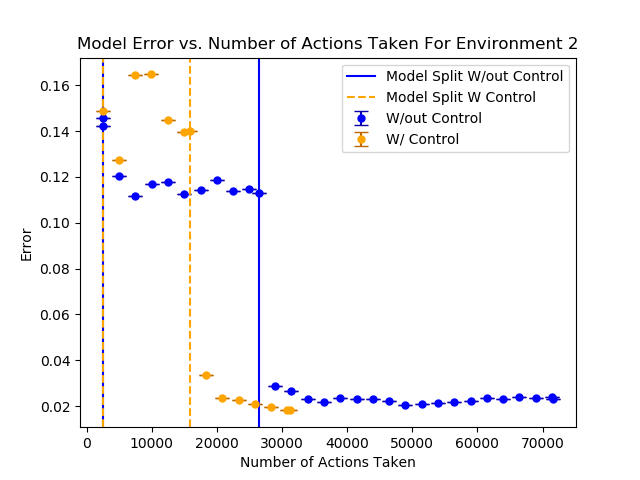
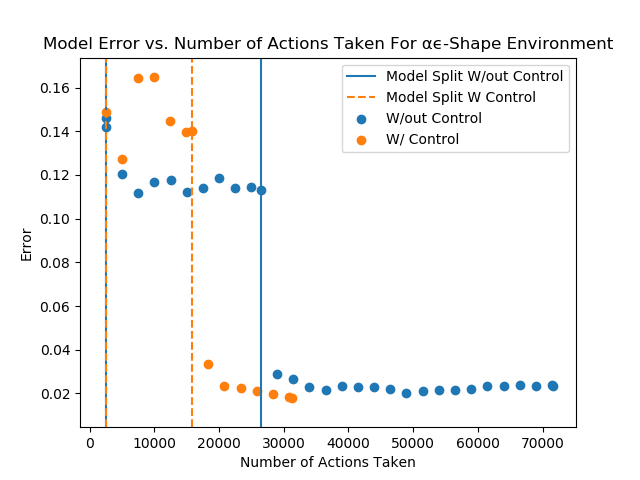
Changed the colors and formatting for Test2_2 graph and moved some of the low alpha/epsilon data to subfolders

diff --git a/generateGraphs.py b/generateGraphs.py
@@ -306,6 +306,10 @@ def generateGraphTest2_2(useFirstPoint,genAbsoluteError, environmentNum):
                     model_splits.append(model_splits_row)
 
         print("Percent Trials Correct for Version " + str(versionNum) + " : " + str(validCount/totalCount))
+
+    prop_cycle = plt.rcParams['axes.prop_cycle']
+    colors = prop_cycle.by_key()['color']
+
     # import pdb; pdb.set_trace()
     v1Data = np.array(v1Data)
     if v1Data.size > 0: # Check to make sure at least one trial was successful
@@ -320,22 +324,24 @@ def generateGraphTest2_2(useFirstPoint,genAbsoluteError, environmentNum):
     # plt.scatter(v1Data_average[:,0], v1Data_average[:,1], label="Collins")
     if v1Data.size > 0: # Check to make sure at least one trial was successful
         print(v1Data_average.size)
-        plt.errorbar(v1Data_average[:,0], v1Data_average[:,1],fmt='.',yerr=v1Data_stdDev[:,1],ecolor="#0B00AB",label="W/out Control",color="blue",markersize=10,capsize=5)
+        plt.scatter(v1Data_average[:,0], v1Data_average[:,1],label="W/out Control",c=colors[0])
+        # plt.plot(v1Data_average[:,0], v1Data_average[:,1], marker='.', label="W/out Control",color=colors[0])
     
     # plt.scatter(v2Data_average[:,0], v2Data_average[:,1], label="BUDD")
     if v2Data.size > 0:
-        plt.errorbar(v2Data_average[:,0], v2Data_average[:,1],fmt='.',yerr=v2Data_stdDev[:,1],ecolor="#BD6800",label="W/ Control",color="orange",markersize=10,capsize=5)
+        plt.scatter(v2Data_average[:,0], v2Data_average[:,1],label="W/ Control",c=colors[1])
+        # plt.plot(v2Data_average[:,0], v2Data_average[:,1], marker='.',label="W/ Control",color=colors[1])
     for row_num in range(len(model_splits)):
         row = model_splits[row_num]
         color = ''
         grouping = ''
         linestyle = ''
         if row_num == 0:
-            color = "blue"
+            color = colors[0]
             grouping = " W/out Control"
             linestyle = "-"
         else:
-            color = "orange"
+            color = colors[1]
             grouping = " W Control"
             linestyle = "--"
         for num in range(len(row)):
@@ -346,7 +352,7 @@ def generateGraphTest2_2(useFirstPoint,genAbsoluteError, environmentNum):
                 plt.axvline(x=split, color=color, linestyle=linestyle)
     plt.xlabel("Number of Actions Taken")
     plt.ylabel("Error")
-    plt.title("Model Error vs. Number of Actions Taken For Environment " + str(environmentNum))
+    plt.title("Model Error vs. Number of Actions Taken For " + getEnvironmentName(str(environmentNum)))
     plt.legend()
 
     axes = plt.gca()
@@ -361,6 +367,7 @@ def generateGraphTest3(useFirstPoint,genAbsoluteError):
     v1Data = []
     v2Data = []
     model_splits = []
+
     
     for versionNum in [1,3]:
         files = glob.glob("./Testing Data/Test3_v" + str(versionNum) + "/*.csv")
@@ -627,6 +634,6 @@ if __name__ == "__main__":
     # env = locals()[envString]()
     # getModelGraph(envNum, env.SDE_Set, env.A_S, env.get_true_transition_probs(), "env" + str(envNum) + "Graph.png")
     # generateGraphTest1(False,False)
-    # generateGraphTest2_2(False,False, 2)
-    generateGraphTest2()
+    generateGraphTest2_2(False,False, 2)
+    # generateGraphTest2()
     # getPercentAccurate(22)
